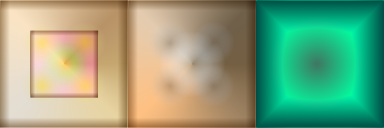
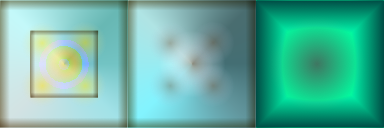
complete ear-level

diff --git a/Classes/Ears.cpp b/Classes/Ears.cpp
@@ -37,6 +37,7 @@ bool Ears::init() {
     //////////////////////////////
     // 1. super init first
     SpriteFrameCache::getInstance()->addSpriteFramesWithFile("earbf.plist");
+    SpriteFrameCache::getInstance()->addSpriteFramesWithFile("earbfred.plist");
     
     
     if (!AbstractLabirint::init("ears.tmx", "back10.png")) {
@@ -52,6 +53,10 @@ bool Ears::init() {
     this->dings = makeObject(DING_TAG, dingtmx, scale_map, xZero, yZero, BALL, false, 0, 0, 0xFFFFF000);
     auto eartmx = map->getObjectGroup("ears");
     this->ears = makeObject(EAR_TAG, eartmx, scale_map, xZero, yZero, BRICK, false, 0, 0, 0xFFFFF000);
+
+    auto earbfredtmx = map->getObjectGroup("earbfred");
+    this->earbfred = makeObject(EARBF_TAG, earbfredtmx, SpriteFrameCache::getInstance(), "earbfred", 1, 3, scale_map, xZero, yZero, BALL, 0.8f, true, 1.0f, 0.2f, 1.0f);
+    
     auto earbftmx = map->getObjectGroup("earbf");
     this->earbf = makeObject(EARBF_TAG, earbftmx, SpriteFrameCache::getInstance(), "earbf", 1, 3, scale_map, xZero, yZero, BALL, 0.8f, true, 1.0f, 0.2f, 1.0f);
     for (auto sprite: earbf) {
@@ -139,6 +144,7 @@ bool Ears::checkCollision(PhysicsContact const &contact, Node *nodeA, Node *node
                 }
             }
             
+            ears.at(stoi(nm) - 1)->runAction(Sequence::create(TintTo::create(0.5f, 243, 44, 239), TintTo::create(0.5, 255, 255, 255), NULL));
             
             return false;
         }
@@ -155,24 +161,21 @@ bool Ears::checkCollision(PhysicsContact const &contact, Node *nodeA, Node *node
                 }
             }
             
-            
             return false;
         }
-        
-        /*else if (nodeA->getTag() == BUTTON_TAG or nodeB->getTag() == BUTTON_TAG) {
-            audio->playEffect("btnclick.wav", false, 1.0f, 0.0f, 1.0f);
-            auto btn_name = nodeB->getName();
-            if (nodeA->getTag() == BUTTON_TAG)
-                btn_name = nodeA->getName();
-            
-            for (auto btn : buttons) {
-                if (btn->getName() == btn_name)
-                    
-                    btn->runAction(Sequence::create(TintTo::create(0.75f, 200, 255, 0), TintTo::create(0.75, 255, 255, 255), NULL));
+        else if (nodeA->getTag() == DING_TAG or nodeB->getTag() == DING_TAG) {
+            audio->playEffect("chime.wav", false, 2.0f, 0.0f, 1.0f);
+            for (auto sprite : ears) {
+                sprite->runAction(Sequence::create(TintTo::create(0.5f, 44, 255, 44), TintTo::create(0.5, 255, 255, 255), NULL));
             }
-            
+            for (auto sprite : earbf) {
+                sprite->runAction(FadeTo::create(1.0f, 0));
+                sprite->getPhysicsBody()->setVelocity(Vec2(0, 0));
+                sprite->getPhysicsBody()->resetForces();
+                sprite->getPhysicsBody()->setGravityEnable(false);
+            }
             return false;
-        }*/
+        }
         else if (nodeA->getTag() == NEWLEVEL_TAG or nodeB->getTag() == NEWLEVEL_TAG) {
             audio->playEffect("harpup.wav", false, 1.0f, 0.0f, 1.0f);
             setNextLevelNum(11);
@@ -234,31 +237,56 @@ void Ears::collisionWithEnemy(Node *nodeA, Node *nodeB) {
 
 void Ears::resumeScene() {
     AbstractLabirint::resumeScene();
-    /*for (auto sprite: torts) {
+    for (auto sprite: earbfred) {
         sprite->getPhysicsBody()->setVelocity(Vec2(MY_VELOCITY*scale_map, -MY_VELOCITY*scale_map));
+        sprite->getPhysicsBody()->setGravityEnable(true);
+    }
+    for (auto sprite: earbf) {
+        if (sprite->getOpacity() == 255) {
+            sprite->getPhysicsBody()->setVelocity(Vec2(MY_VELOCITY*scale_map, -MY_VELOCITY*scale_map));
+            sprite->getPhysicsBody()->setGravityEnable(true);
+        }
     }
     
-    resumeAllObjectLayer(torts);*/
+    resumeAllObjectLayer(earbf);
+    resumeAllObjectLayer(earbfred);
+    
     resumeAllObjectLayer(pluses);
 }
 
 void Ears::pauseScene() {
     AbstractLabirint::pauseScene();
-    /*for (auto sprite: torts) {
+    for (auto sprite: earbf) {
         sprite->getPhysicsBody()->setVelocity(Vec2(0, 0));
         sprite->getPhysicsBody()->resetForces();
+        sprite->getPhysicsBody()->setGravityEnable(false);
     }
-    pauseAllObjectLayer(torts);*/
+    for (auto sprite: earbfred) {
+        sprite->getPhysicsBody()->setVelocity(Vec2(0, 0));
+        sprite->getPhysicsBody()->resetForces();
+        sprite->getPhysicsBody()->setGravityEnable(false);
+    }
+    pauseAllObjectLayer(earbf);
+    pauseAllObjectLayer(earbfred);
+    
     pauseAllObjectLayer(pluses);
 }
 
 void Ears::stopScene() {
     AbstractLabirint::stopScene();
-    /*for (auto sprite: torts) {
+    for (auto sprite: earbf) {
         sprite->getPhysicsBody()->setVelocity(Vec2(0, 0));
         sprite->getPhysicsBody()->resetForces();
+        sprite->getPhysicsBody()->setGravityEnable(false);
     }
-    stopAllObjectLayer(torts);*/
+    for (auto sprite: earbfred) {
+        sprite->getPhysicsBody()->setVelocity(Vec2(0, 0));
+        sprite->getPhysicsBody()->resetForces();
+        sprite->getPhysicsBody()->setGravityEnable(false);
+    }
+    stopAllObjectLayer(earbf);
+    stopAllObjectLayer(earbfred);
+    
     stopAllObjectLayer(pluses);
 }
 

diff --git a/Classes/Ears.h b/Classes/Ears.h
@@ -36,6 +36,7 @@ private:
     cocos2d::Vector<cocos2d::Sprite*> dings;
     cocos2d::Vector<cocos2d::Sprite*> ears;
     cocos2d::Vector<cocos2d::Sprite*> earbf;
+    cocos2d::Vector<cocos2d::Sprite*> earbfred;
 
     
     void ownEvent();
